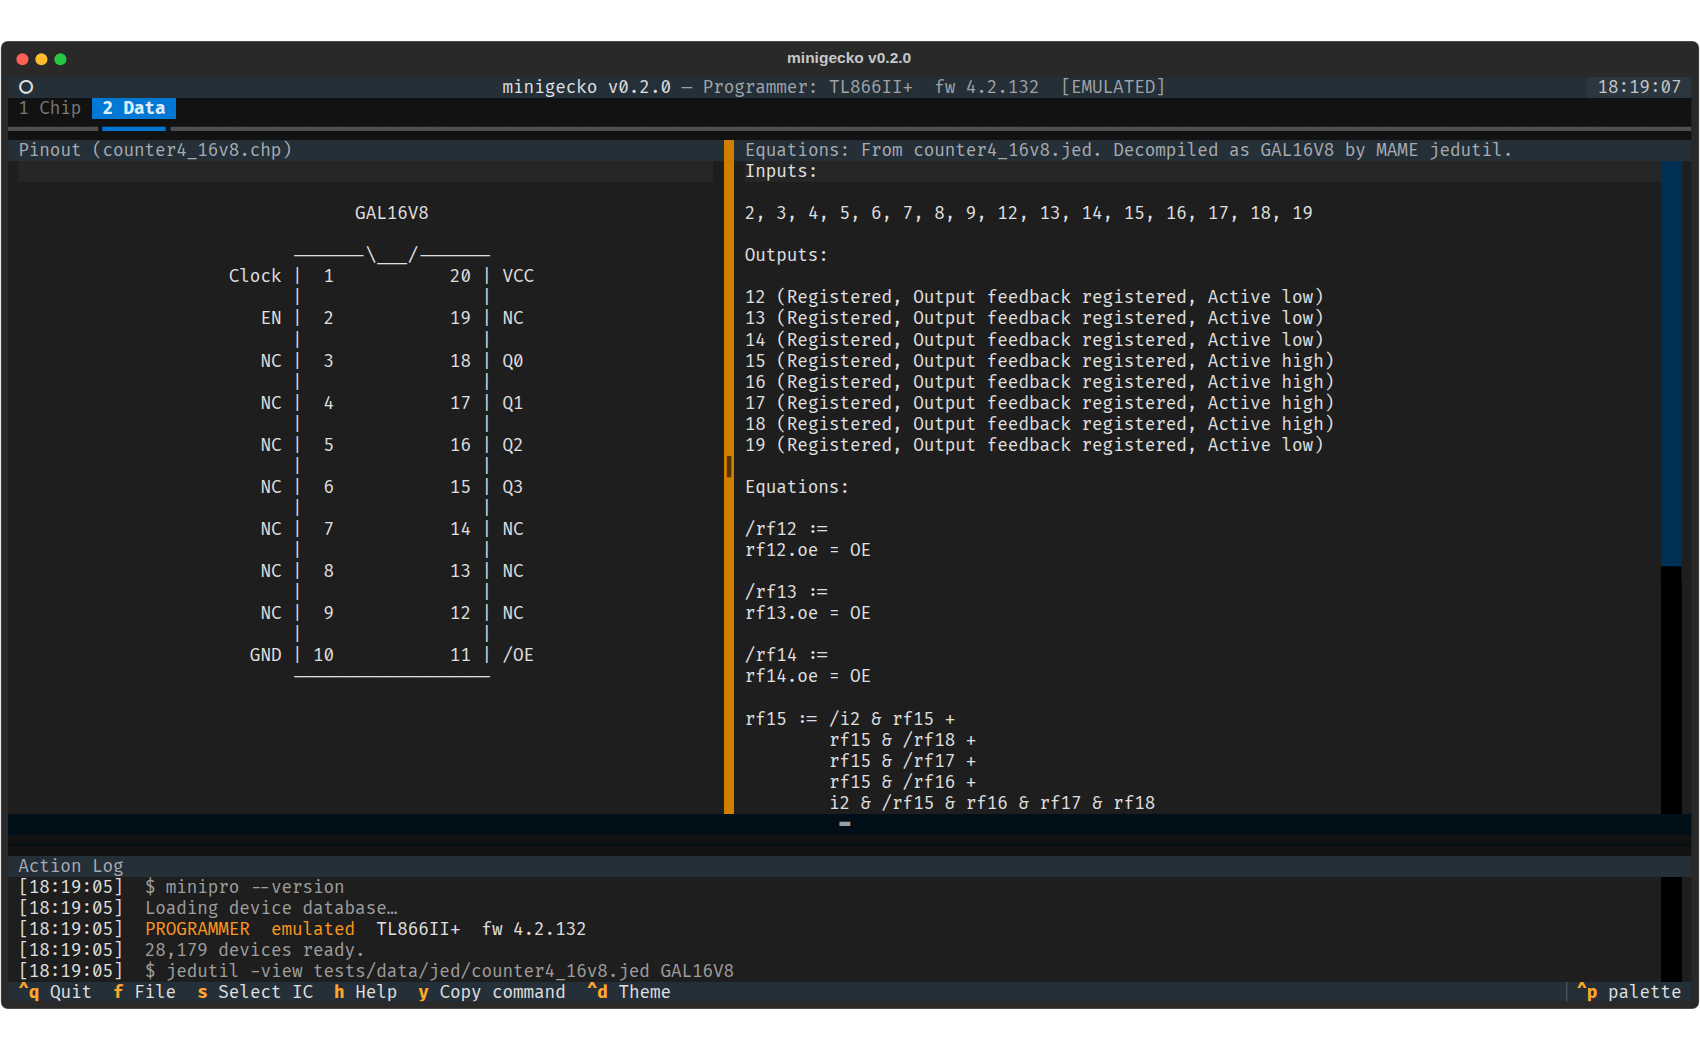
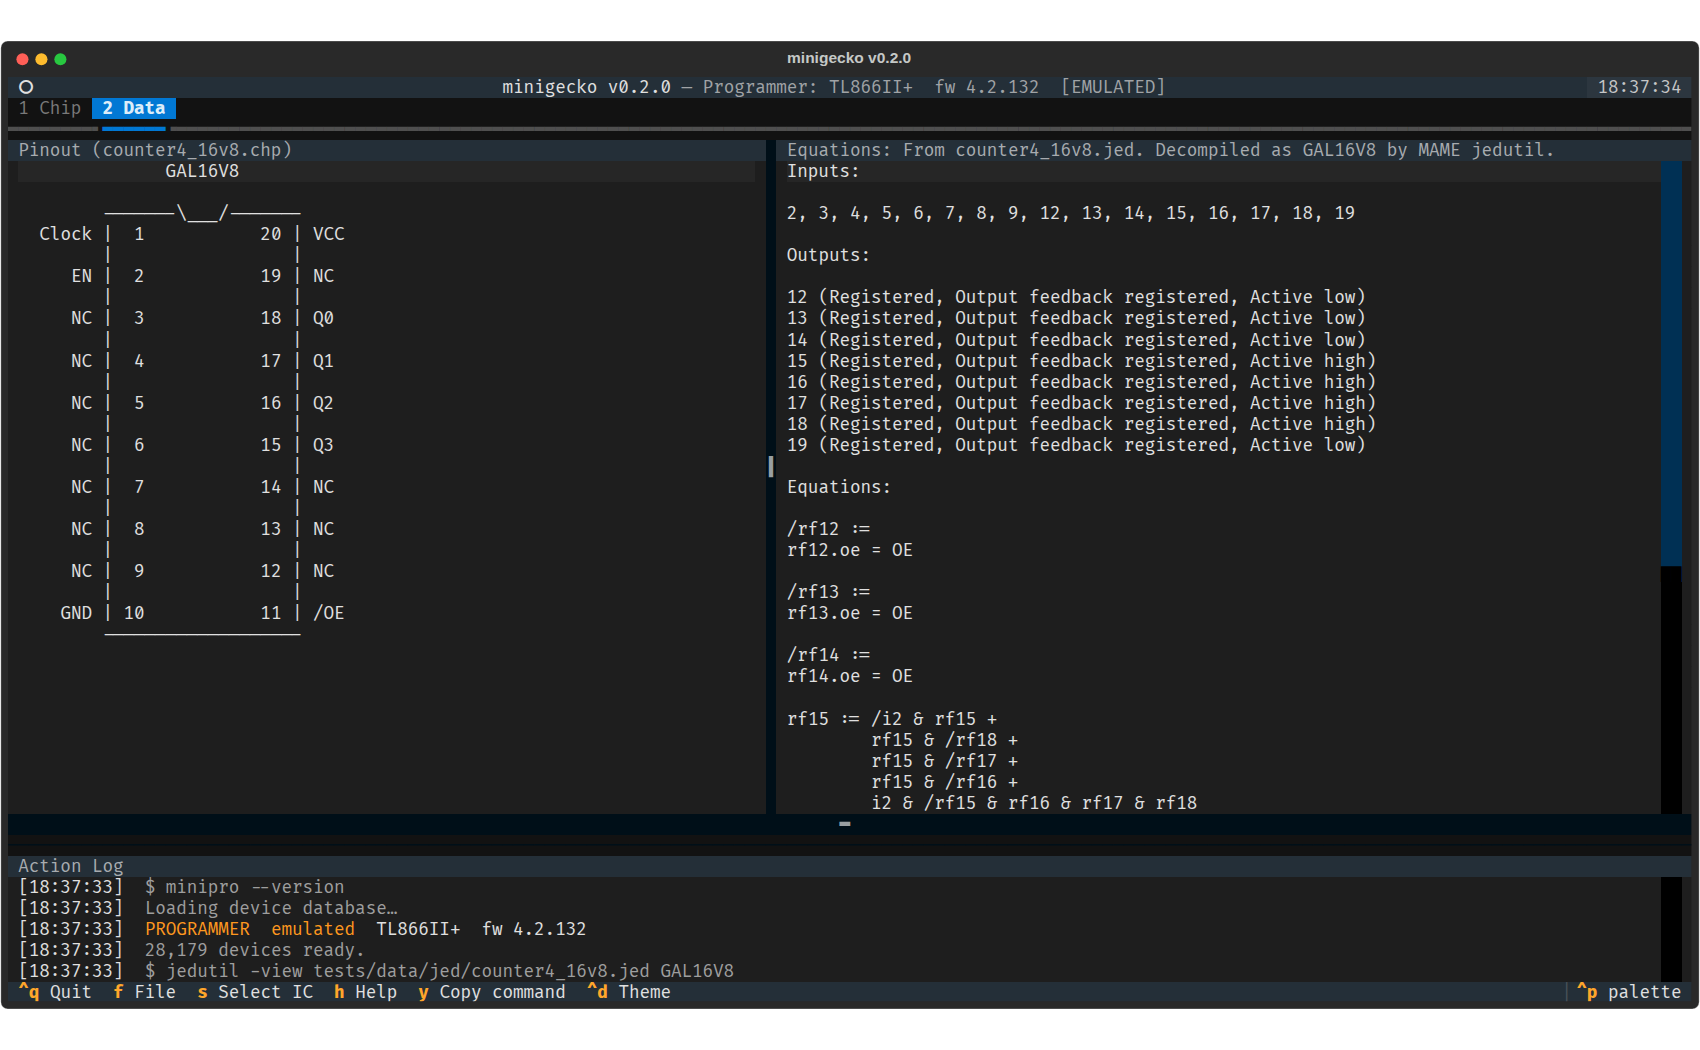
fix(ui): trim Galette's wide left margin from a .chp pinout (MINIGECKO-017, piece 2)
Galette centres its chip drawing on a wide page. The Data tab now removes the
indent all lines share and indents by two spaces, for display only; the file
is unchanged.

diff --git a/tests/test_app_tabs.py b/tests/test_app_tabs.py
@@ -141,7 +141,10 @@ async def test_chp_shows_pinout_beside_its_jeds_equations(app, monkeypatch):
         _load(app, chp)
         await pilot.pause(0.3)
         assert "Pinout (gates_16v8.chp)" in str(app.query_one("#jed-title", Static).render())
-        assert "-------\\___/-------" in app.query_one("#jed-view", TextArea).text
+        shown = app.query_one("#jed-view", TextArea).text
+        assert "-------\\___/-------" in shown
+        lines = [ln for ln in shown.splitlines() if ln.strip()]
+        assert min(len(ln) - len(ln.lstrip()) for ln in lines) == 2  # Galette's margin trimmed
         assert "o12 = i2" in app.query_one("#jed-eqn", TextArea).text
         assert app.query_one("#jed-right").display
 

diff --git a/minigecko/ui/app_shell.py b/minigecko/ui/app_shell.py
@@ -6,6 +6,7 @@ import logging
 import os
 import shutil
 import subprocess
+import textwrap
 import threading
 from pathlib import Path
 from typing import ClassVar
@@ -293,6 +294,8 @@ class MinigeckoApp(App):
             from minigecko.core.jedec import decompile
 
             text = data.decode("utf-8", errors="replace")
+            if kind == "Pinout":  # Galette centres its drawing on a wide page
+                text = textwrap.indent(textwrap.dedent(text).strip("\n"), "  ") + "\n"
             jed = next(
                 (p for p in (path.with_suffix(".jed"), path.with_suffix(".JED")) if p.exists()),
                 None,
